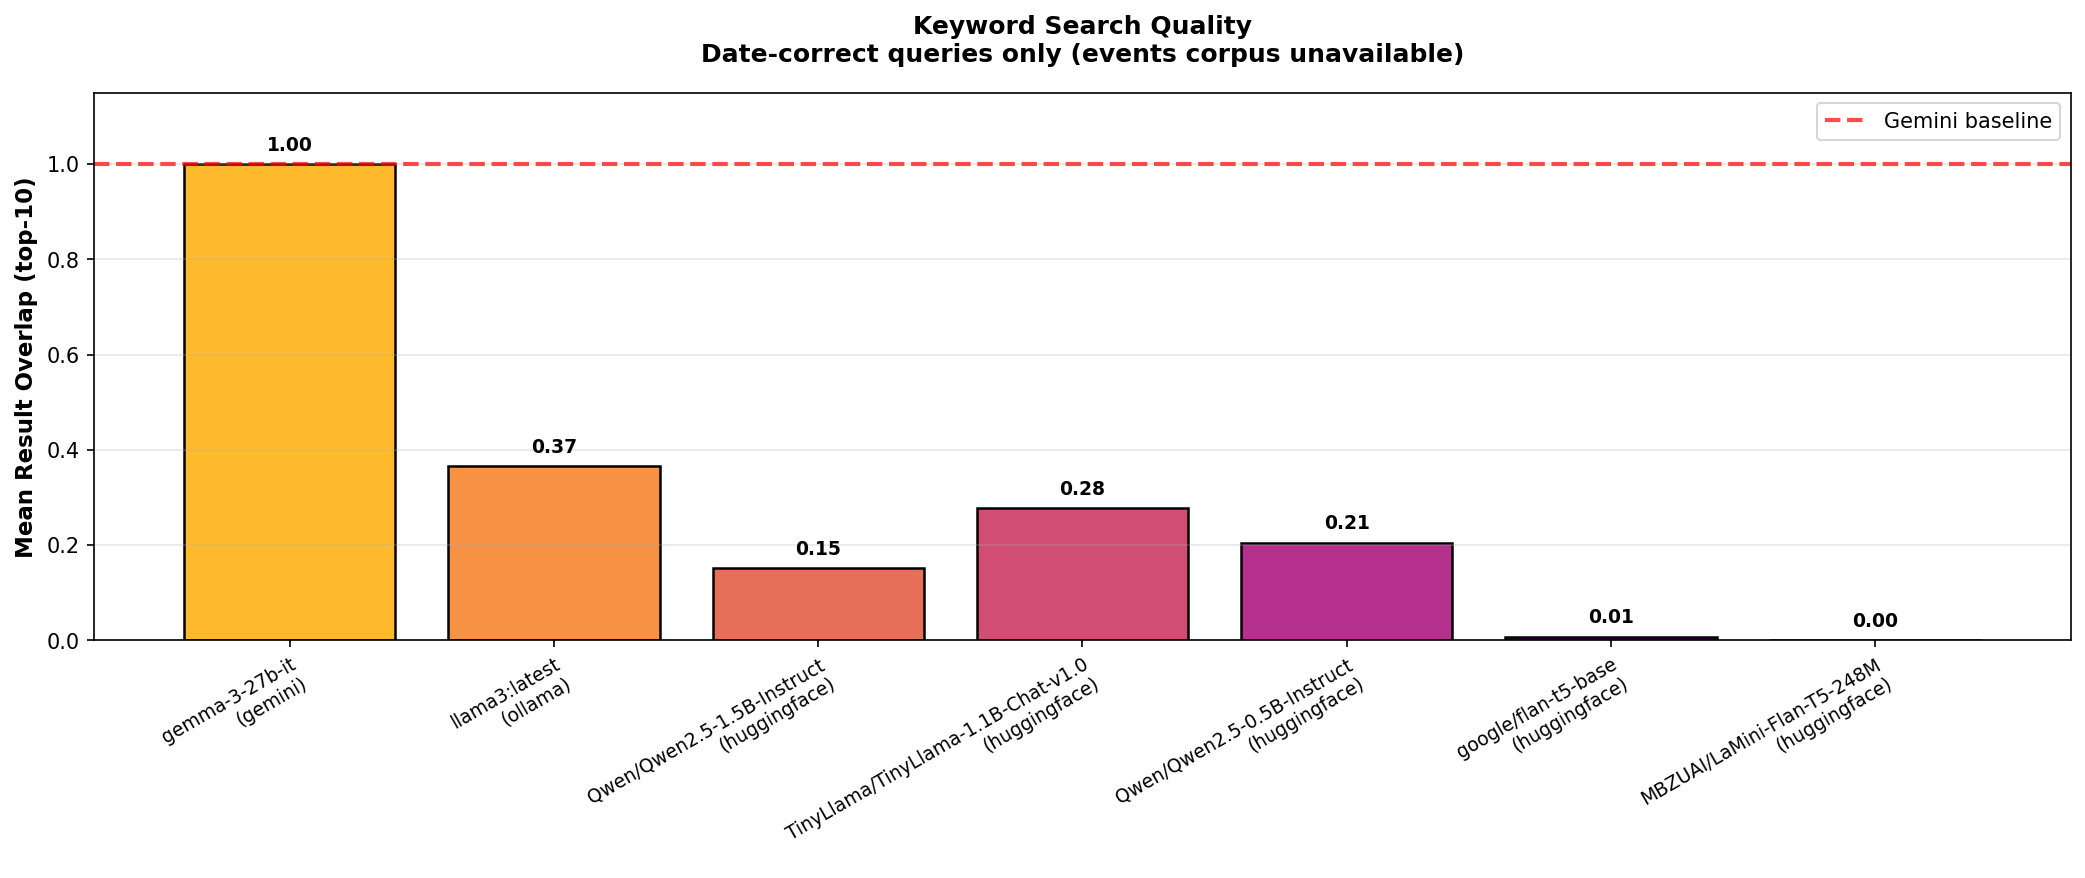
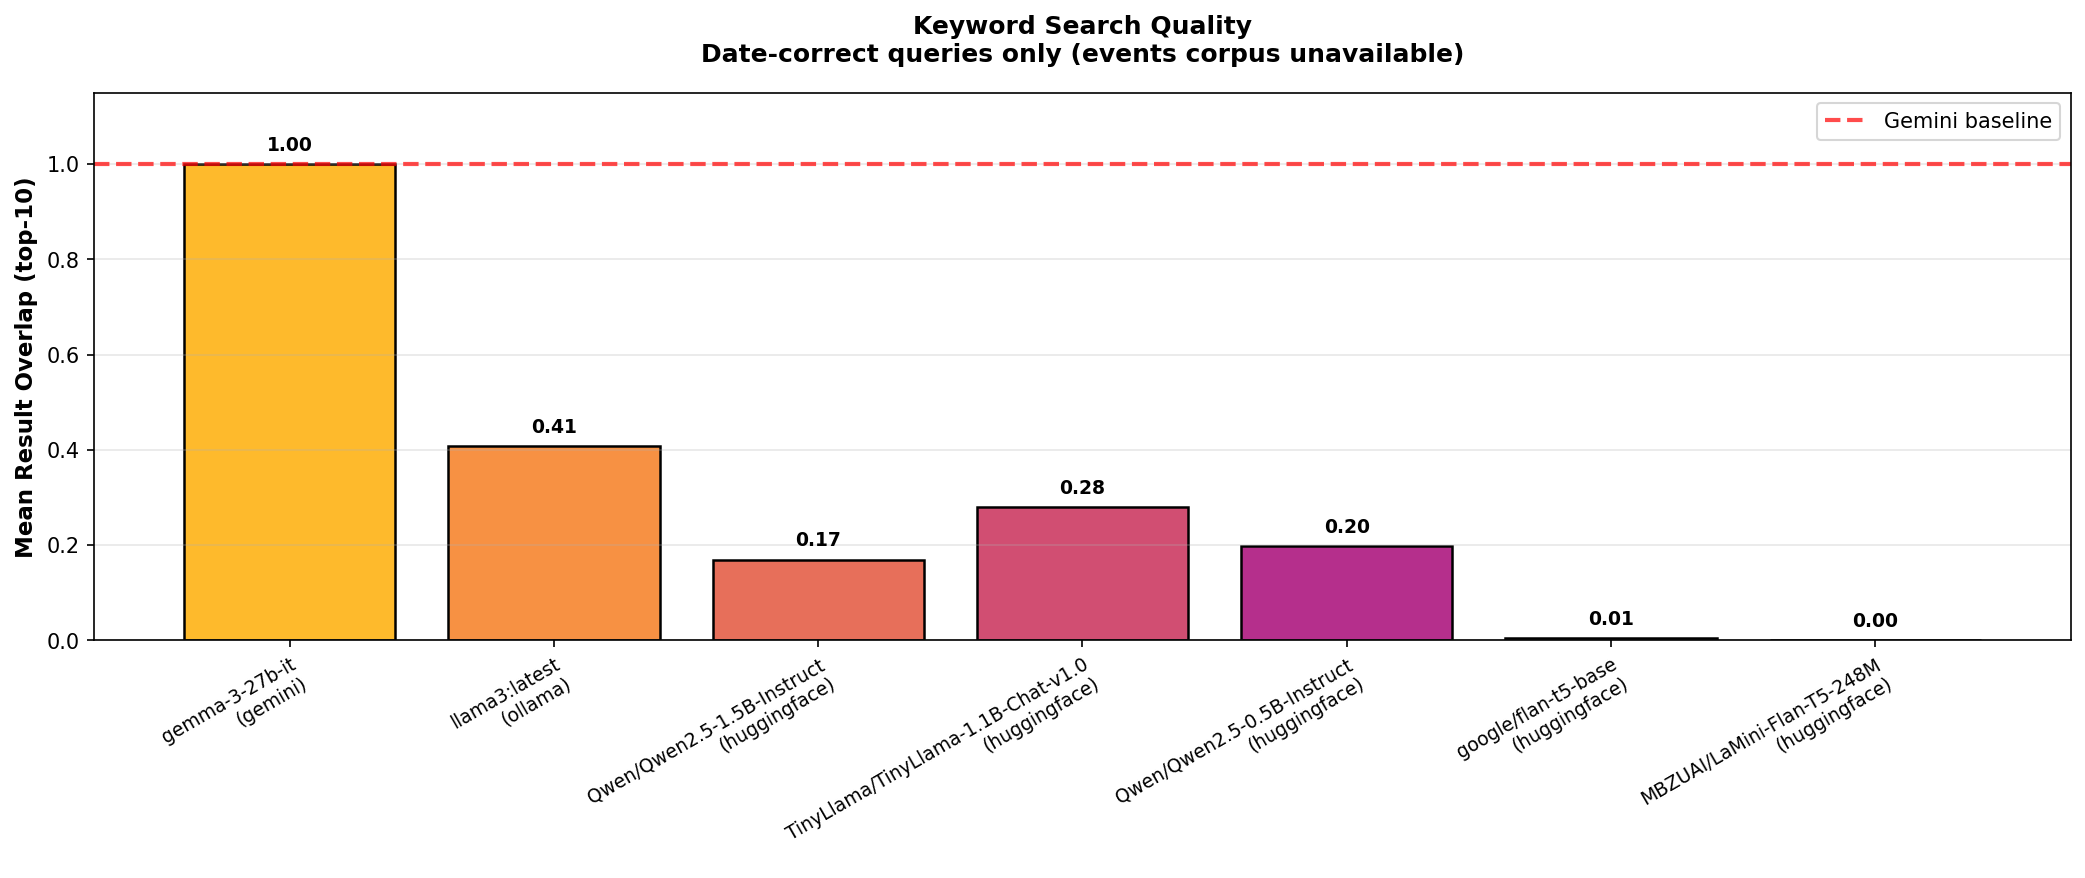
fix test case visualizations to contain correct numberings based on ground truth

diff --git a/testing/benchmark/visuals.py b/testing/benchmark/visuals.py
@@ -296,6 +296,23 @@ def _temporal_agreement_against_baseline(
     baseline_rows = model_results.get(baseline_key) or []
     baseline_index = _build_baseline_index(baseline_rows)
 
+    # Use dataset ground truth temporal labels for a consistent denominator
+    # across all models. This avoids denominator drift caused by baseline
+    # extraction behavior on individual queries.
+    temporal_case_keys = {
+        _run_key(brow)
+        for brow in baseline_rows
+        if any(
+            (
+                brow.case.expected.date_from,
+                brow.case.expected.date_to,
+                brow.case.expected.time_from,
+                brow.case.expected.time_to,
+            )
+        )
+    }
+    denominator = len(temporal_case_keys)
+
     fractions: Dict[str, Tuple[int, int]] = {}
 
     for summary in summaries:
@@ -303,29 +320,21 @@ def _temporal_agreement_against_baseline(
         rows = model_results.get(key) or []
 
         if key == baseline_key:
-            fractions[key] = (len(rows), len(rows))
+            fractions[key] = (denominator, denominator)
             continue
 
         numerator = 0
-        # Denominator = all baseline queries that have temporal content, regardless of
-        # whether this model extracted anything. Models that never parse get 0/N.
-        denominator = sum(
-            1
-            for brow in baseline_rows
-            if any((brow.invocation.date_from, brow.invocation.date_to))
-            or any((brow.invocation.time_from, brow.invocation.time_to))
-        )
 
         for row in rows:
+            if _run_key(row) not in temporal_case_keys:
+                continue
+
             baseline_row = baseline_index.get(_run_key(row))
             if baseline_row is None:
                 continue
 
             date_base = (baseline_row.invocation.date_from, baseline_row.invocation.date_to)
             time_base = (baseline_row.invocation.time_from, baseline_row.invocation.time_to)
-            if not any(date_base) and not any(time_base):
-                continue
-
             date_pred = (row.invocation.date_from, row.invocation.date_to)
             time_pred = (row.invocation.time_from, row.invocation.time_to)
             date_ok = date_pred == date_base
